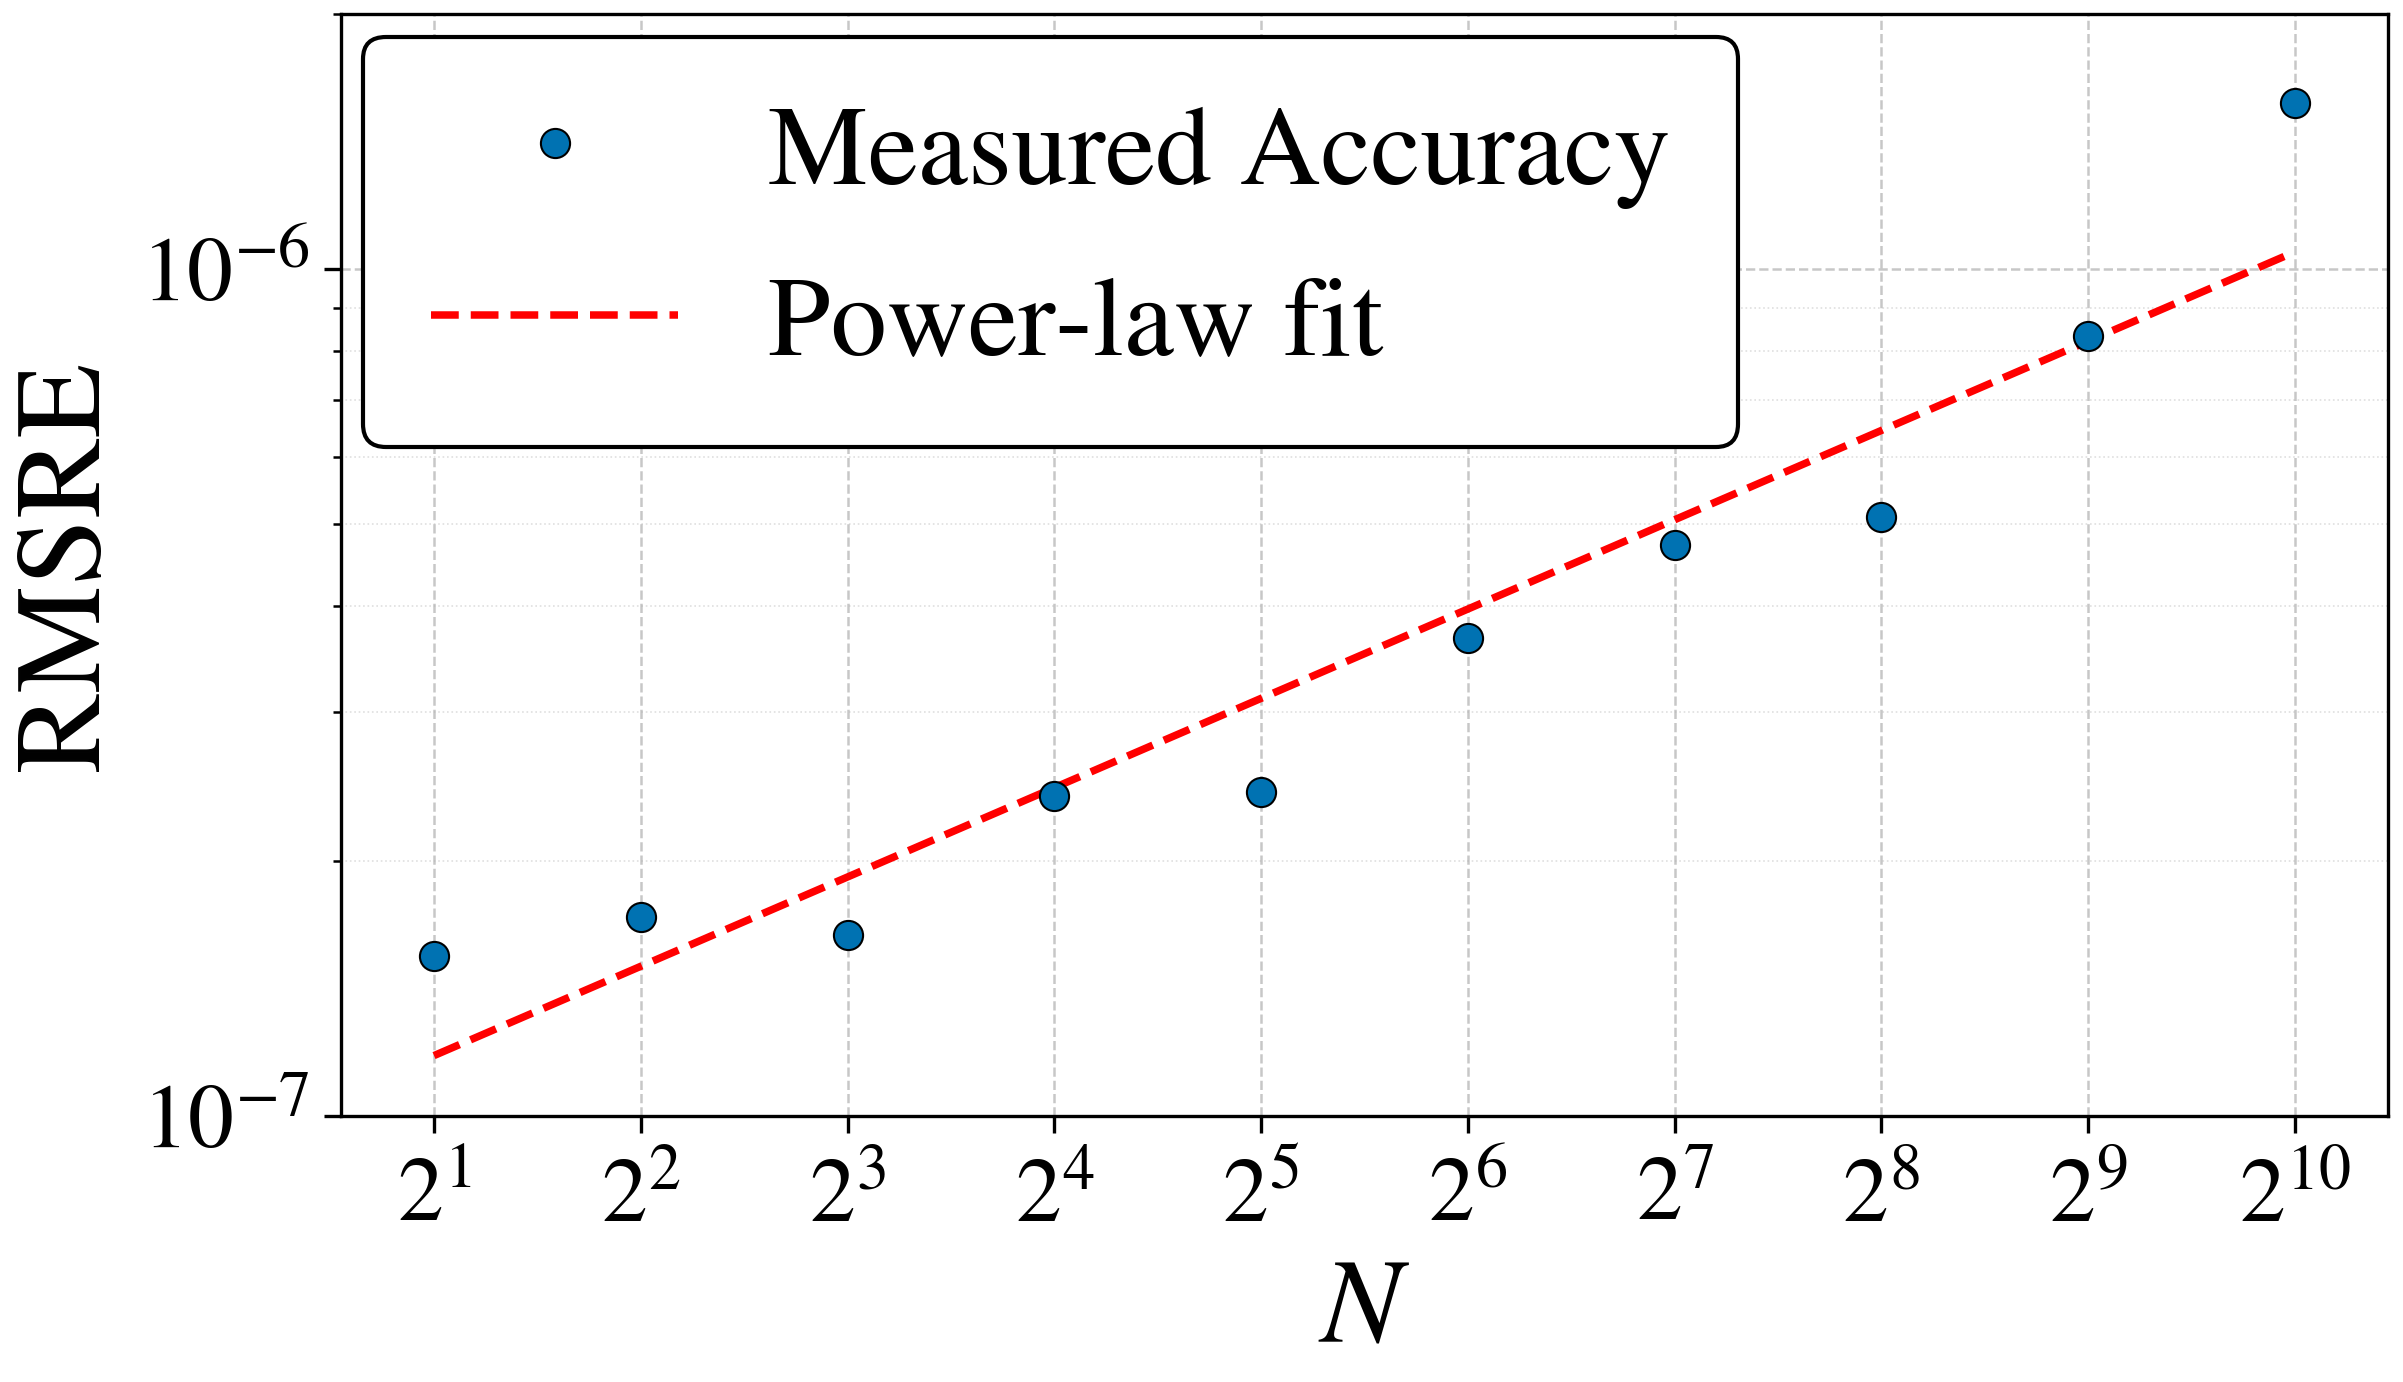
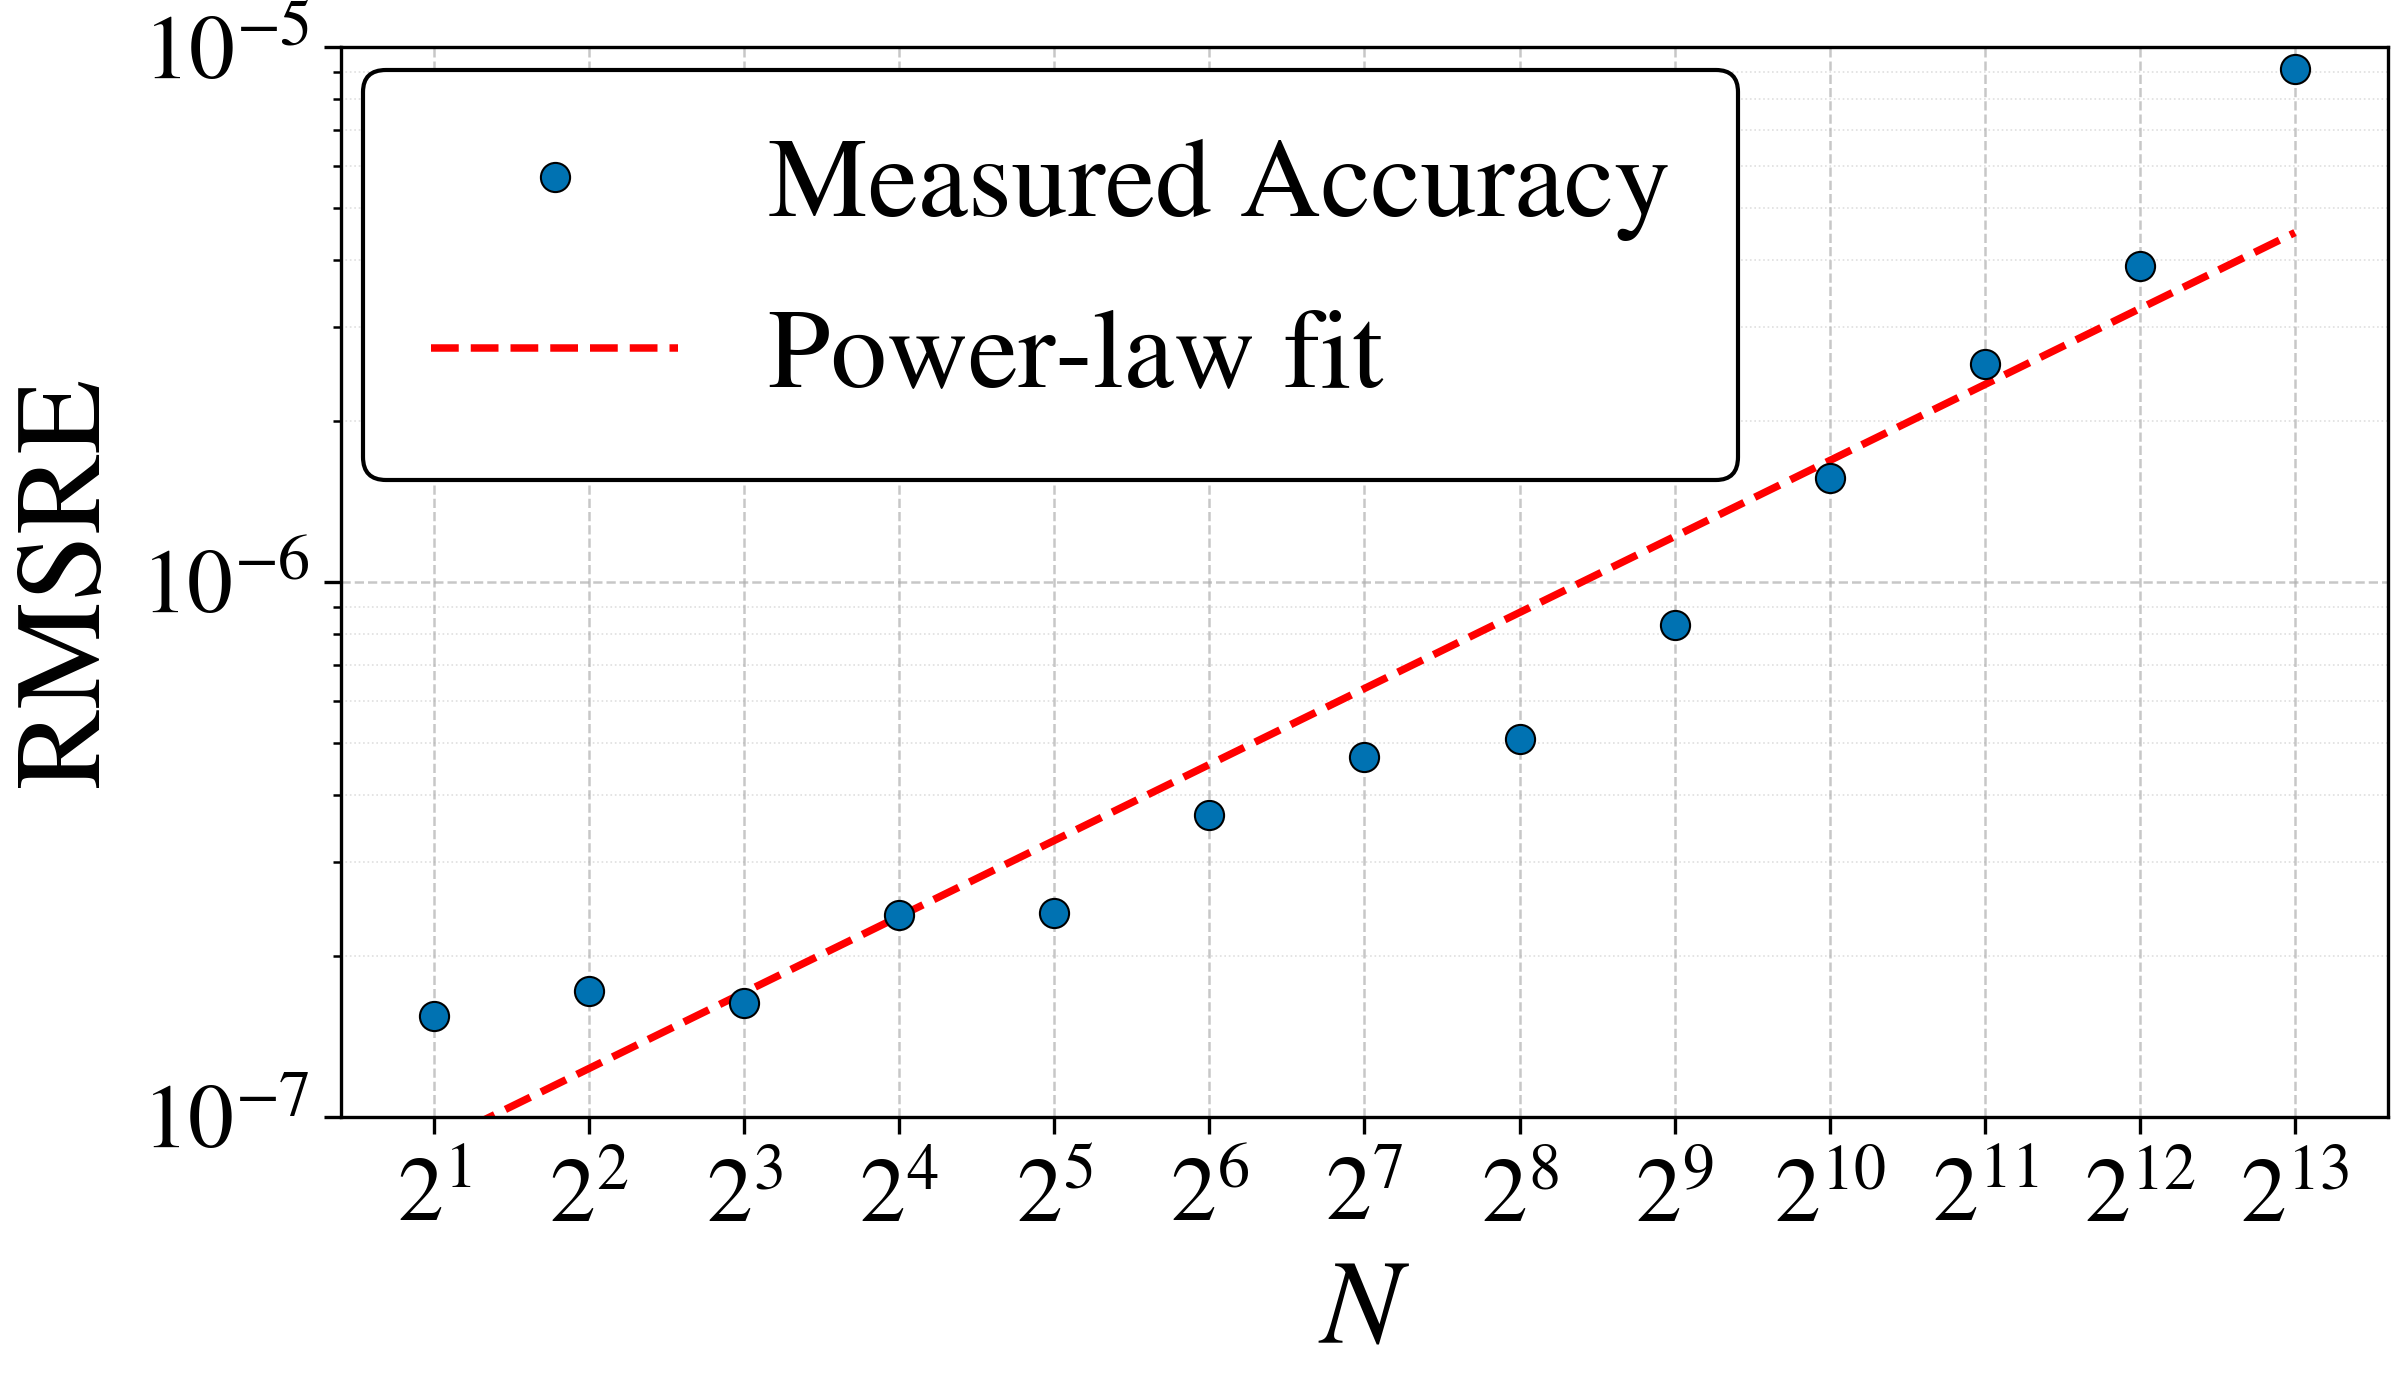
m

diff --git a/evaluation/layernorm/N_sweep/scripts/plot_accuracy.py b/evaluation/layernorm/N_sweep/scripts/plot_accuracy.py
@@ -14,13 +14,14 @@ length ``N`` (``images/accuracy_0_newton.png`` for 0 steps,
 
 Design notes
 ------------
-* Both axes are logarithmic: ``N`` is restricted to 2 .. 1024 (``N_MAX``, always
-  a power of two) to match the sibling resources plots, and RMSRE spans a wide
-  range, so a log-log view keeps every point legible and makes power-law trends
-  read as straight lines. The x-axis uses base 2 (``N`` is a power of two) with
-  the sampled N values, labelled as ``2^k``, as tick labels. Each figure's y-axis
-  is autoscaled to its own series, so both read clearly despite the two
-  configurations occupying different RMSRE ranges.
+* Both axes are logarithmic: ``N`` is restricted to 2 .. 8192 (``N_MAX``, always
+  a power of two), and RMSRE spans a wide range, so a log-log view keeps every
+  point legible and makes power-law trends read as straight lines. The x-axis
+  uses base 2 (``N`` is a power of two) with the sampled N values, labelled as
+  ``2^k``, as tick labels. Each figure's y-axis is autoscaled to its own series
+  (the 1-Newton figure additionally pins its limits to a clean decade bracket),
+  so both read clearly despite the two configurations occupying different RMSRE
+  ranges.
 * Each measurement is drawn as a bare marker (no connecting line), so the raw
   sweep is shown exactly as sampled.
 * Only the 1-Newton series is close to a straight line on these log-log axes
@@ -93,11 +94,13 @@ SERIES = (
 COLOR_FIT = "red"
 
 # Largest N to plot. The accuracy reports sweep N up to 16384, but the figures
-# are restricted to N <= 1024 (2^1 .. 2^10) so their x-range matches the sibling
-# resources plots (whose synthesis data only covers N <= 1024). The cap is
-# applied at load time, so both the drawn points and the power-law fit use this
-# same restricted range.
-N_MAX = 1024
+# are restricted to N <= 8192 (2^1 .. 2^13). The RMSRE-vs-N growth steepens with
+# N, so the fitted power-law exponent depends on the upper cutoff (0.35 at
+# N<=1024, rising to 0.53 over the full sweep); cutting at 8192 drops only the
+# steepest final point (16384) and gives an exponent of ~0.47, close to the
+# 1/2 expected from sqrt(N)-like error accumulation. The cap is applied at load
+# time, so both the drawn points and the power-law fit use this same range.
+N_MAX = 8192
 
 
 def pow2_label(n: int) -> str:
@@ -272,21 +275,21 @@ def plot(label: str, color: str, marker: str, fit: bool,
     ax.grid(True, which="minor", axis="y", linestyle=":", linewidth=0.4, alpha=0.4)
 
     if fit:
-        # The 1-Newton RMSRE (N <= 1024) straddles the 10^-7/10^-6 decade
-        # boundary but sits just above 10^-7, so autoscale shows only the 10^-6
-        # major tick. Pin the lower limit to 10^-7 (below the data minimum, so no
-        # point is clipped) and give a little headroom above, so both the 10^-7
-        # and 10^-6 decade ticks are labelled.
-        ax.set_ylim(1e-7, 2e-6)
+        # The 1-Newton RMSRE spans ~1.5e-7 .. 9.1e-6, i.e. just inside the
+        # 10^-7 .. 10^-5 decades, so a tight autoscale would label only the
+        # single 10^-6 major tick. Bracket the limits to [1e-7, 1e-5] (both just
+        # outside the data range, so no point is clipped) to get three labelled
+        # decade ticks (10^-7, 10^-6, 10^-5).
+        ax.set_ylim(1e-7, 1e-5)
 
-    # 1-Newton: pin the legend hard into the top-left corner (small
-    # border-axes pad so it sits flush against the spines); other series keep
-    # matplotlib's automatic best placement with the usual inset.
-    legend_loc = "upper left" if fit else "best"
-    legend_axespad = 0.2 if fit else 0.5
+    # Pin the legend into whichever corner is clear of the data, flush against
+    # the spines (small border-axes pad). The 1-Newton series rises monotonically,
+    # leaving the top-left open; the 0-Newton floor clusters high with only its
+    # large-N points dipping down on the right, leaving the bottom-left open.
+    legend_loc = "upper left" if fit else "lower left"
     ax.legend(
         loc=legend_loc, ncol=1, handlelength=2.2,
-        borderpad=0.6, labelspacing=0.6, borderaxespad=legend_axespad,
+        borderpad=0.6, labelspacing=0.6, borderaxespad=0.2,
         frameon=True, fancybox=True, edgecolor="black", facecolor="white",
     )
 
